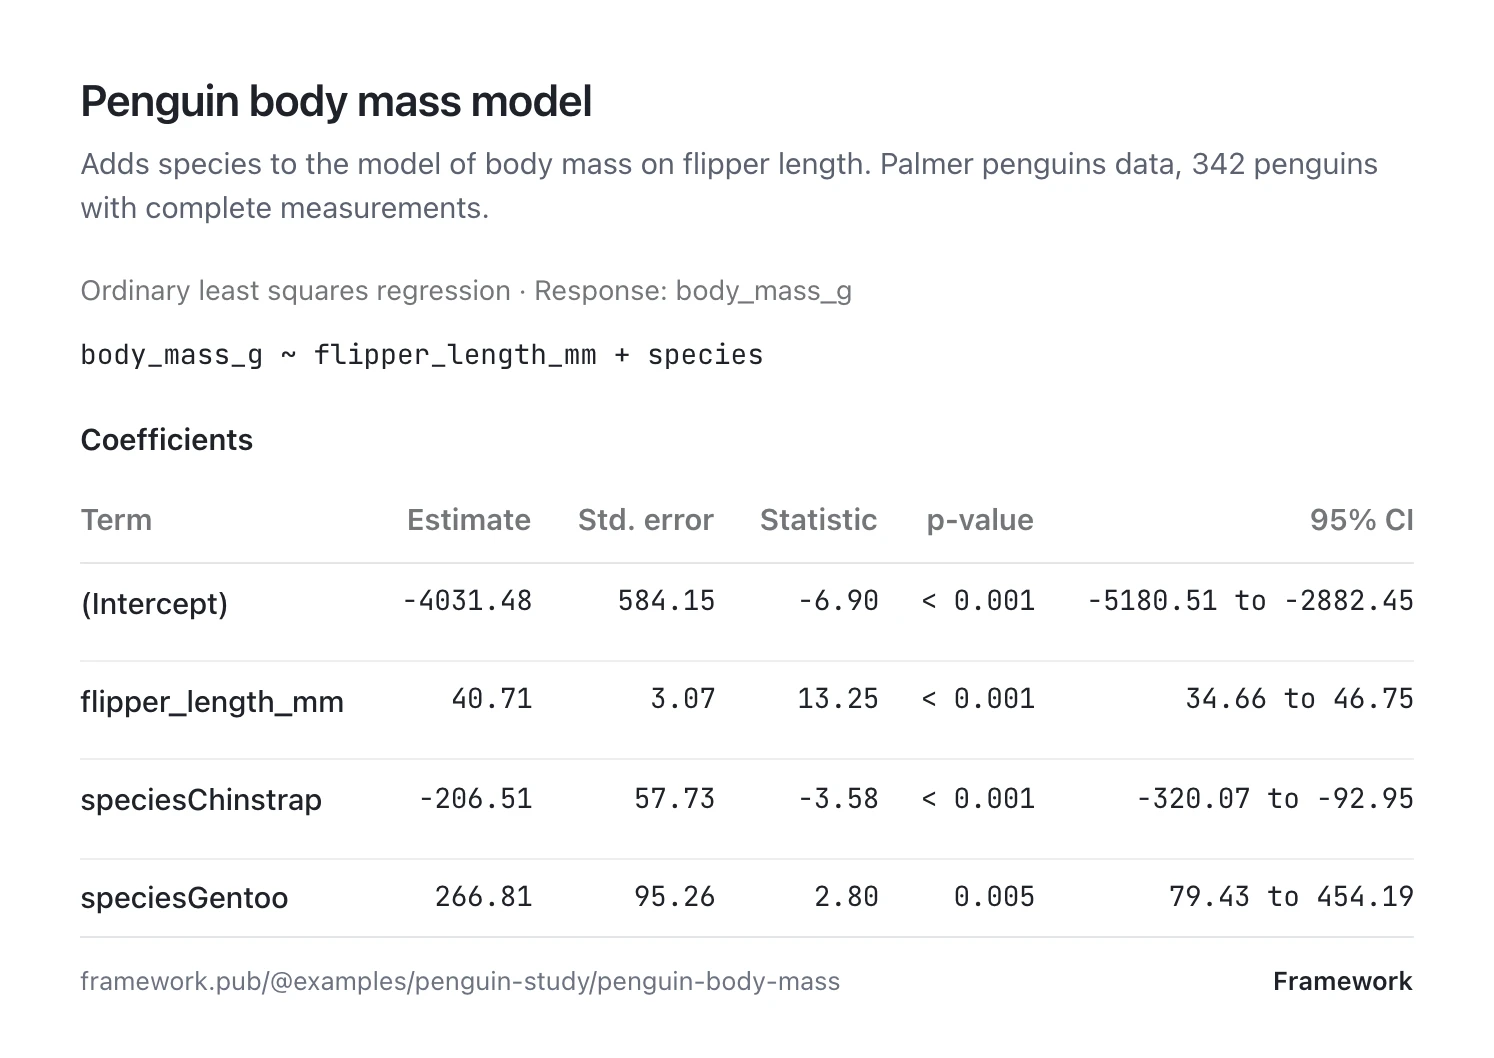
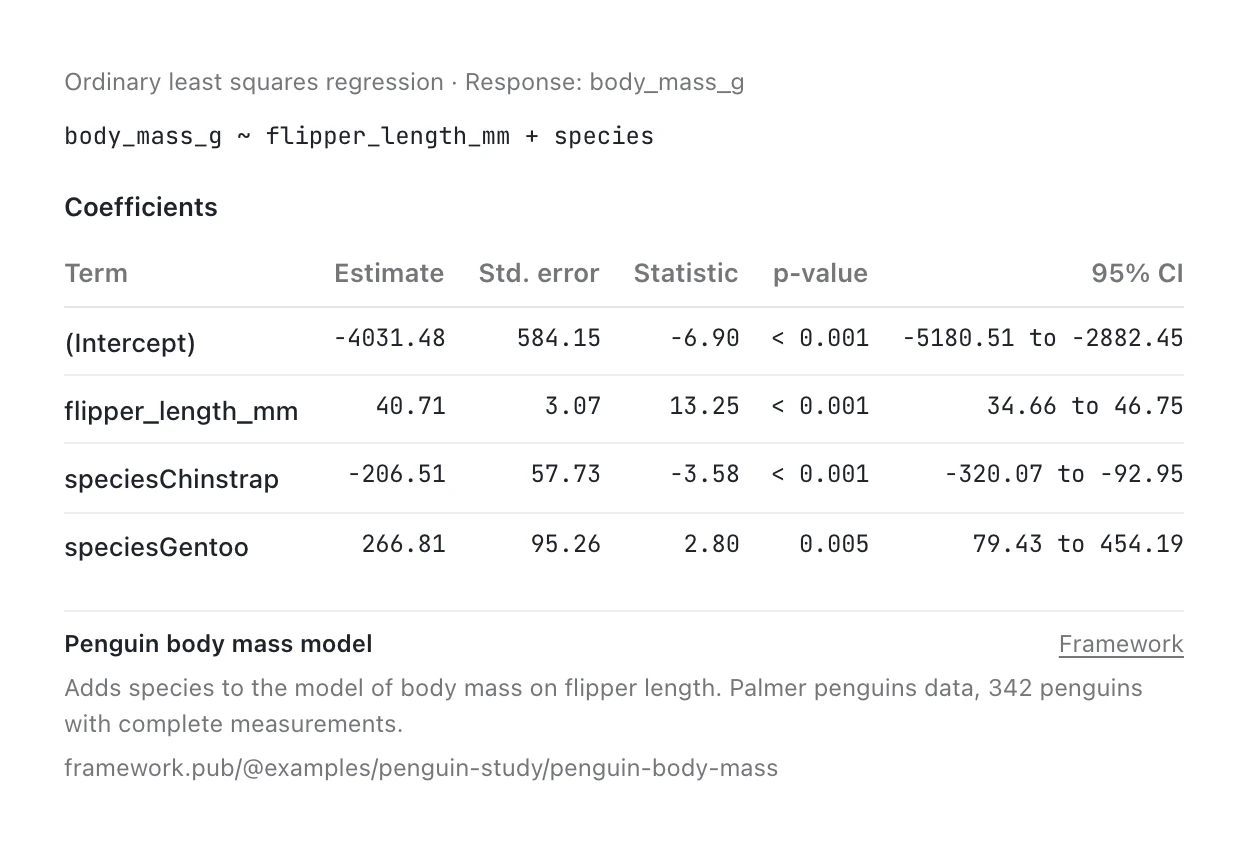
fix: Copy image matches the embed's layout and spacing

diff --git a/resources/js/embed-image.js b/resources/js/embed-image.js
@@ -1,13 +1,13 @@
 // An artifact's embed as a PNG, for sites that take images but not embeds
-// (Substack, email, slides). The result is drawn again off screen, light, and
-// framed to stand on its own: the title and description above, the result,
-// then a footer with the artifact's address, since an image can't link. The
-// Model details disclosure is left out; an image can't open it.
+// (Substack, email, slides). The result is drawn again off screen, light, with
+// the renderer's own layout and sizes, so it looks like the embed. Only the
+// Model details disclosure is left out, since an image can't open it, and the
+// artifact's address joins the caption, since an image can't link.
 
 const MIN_WIDTH = 560;
 const CHART_WIDTH = 720;
 const MAX_WIDTH = 1200;
-const PAD = 40;
+const PAD = 32;
 const CHART_WAIT_MS = 6000;
 
 let library = null;
@@ -48,45 +48,53 @@ const displayAddress = (url) => {
     }
 };
 
+/**
+ * html-to-image copies each element's computed style, with two distortions:
+ * it rounds font sizes down (11.96px becomes 10.9px), and it pins a table to
+ * its measured height, which counts the table's caption twice and stretches
+ * the rows. These rules, added after its font CSS, restore the real sizes.
+ */
+async function exactCss(stage, getFontEmbedCSS) {
+    const sizes = new Set();
+    for (const node of [stage, ...stage.querySelectorAll('*')]) {
+        const size = getComputedStyle(node).fontSize;
+        node.setAttribute('data-fw-size', size);
+        sizes.add(size);
+    }
+    const rules = [...sizes].map((size) => `[data-fw-size="${size}"]{font-size:${size}!important}`);
+    rules.push('table,caption,thead,tbody,tfoot,tr,td,th{height:auto!important;block-size:auto!important}');
+    return `${await getFontEmbedCSS(stage)}\n${rules.join('\n')}`;
+}
+
 /** A PNG blob of the embed document, drawn with the framework-embed renderer. */
 export async function embedImage(renderer, doc, link) {
-    const { toBlob } = await loadLibrary();
+    const { toBlob, getFontEmbedCSS } = await loadLibrary();
     const font = getComputedStyle(document.body).fontFamily || 'ui-sans-serif, system-ui, sans-serif';
     const chart = doc.kind === 'vega-lite' || doc.kind === 'image';
 
     const stage = el('div', {
         position: 'fixed', left: '-10000px', top: '0', boxSizing: 'border-box',
-        width: `${(chart ? CHART_WIDTH : MIN_WIDTH) + PAD * 2}px`, padding: `${PAD - 4}px ${PAD}px ${PAD - 12}px`,
-        background: '#ffffff', color: '#1f2229', colorScheme: 'light', fontFamily: font, fontSize: '17px', lineHeight: '1.55',
+        width: `${(chart ? CHART_WIDTH : MIN_WIDTH) + PAD * 2}px`, padding: `${PAD}px`,
+        background: '#ffffff', color: '#1f2229', colorScheme: 'light', fontFamily: font, fontSize: '16px', lineHeight: '1.5',
     });
     stage.setAttribute('aria-hidden', 'true');
     stage.dataset.theme = 'light';
     stage.className = 'light';
-
-    // Title and description
-    const header = el('div', { marginBottom: '18px' });
-    header.append(el('div', { fontSize: '22px', fontWeight: '600', lineHeight: '1.3', letterSpacing: '-0.01em' }, doc.title || 'Artifact'));
-    if (doc.description) header.append(el('div', { marginTop: '6px', fontSize: '15px', color: '#5b6170', lineHeight: '1.5' }, doc.description));
-    stage.append(header);
-
-    // The result, without the renderer's caption (the header and footer replace it)
-    const holder = el('div', {});
-    stage.append(holder);
     document.body.append(stage);
     try {
-        renderer.mount(holder, doc, { lazy: false });
-        holder.querySelectorAll('.fw-embed__details, .fw-embed__caption').forEach((node) => node.remove());
-        holder.querySelectorAll('.fw-embed').forEach((figure) => { figure.style.margin = '0'; figure.style.fontSize = '1em'; });
-        holder.querySelectorAll('.fw-embed__scroll').forEach((scroll) => { scroll.style.overflow = 'visible'; });
+        renderer.mount(stage, doc, { lazy: false });
+        stage.querySelectorAll('.fw-embed__details').forEach((node) => node.remove());
+        stage.querySelectorAll('.fw-embed').forEach((figure) => { figure.style.margin = '0'; });
+        stage.querySelectorAll('.fw-embed__scroll').forEach((scroll) => { scroll.style.overflow = 'visible'; });
 
-        // Footer: where to find it
-        const footer = el('div', {
-            display: 'flex', justifyContent: 'space-between', alignItems: 'baseline', gap: '16px',
-            marginTop: '22px', paddingTop: '12px', borderTop: '1px solid #e3e5ea', fontSize: '13px', color: '#6b7280',
-        });
-        footer.append(el('span', { overflowWrap: 'anywhere' }, displayAddress(link || doc.url || '')));
-        footer.append(el('span', { fontWeight: '600', color: '#1f2229', whiteSpace: 'nowrap' }, 'Framework'));
-        stage.append(footer);
+        // The address readers can type, on its own line at the end of the caption
+        const address = displayAddress(link || doc.url || '');
+        const caption = stage.querySelector('.fw-embed__caption');
+        if (address && caption) {
+            caption.append(el('span', { flexBasis: '100%', order: '2', color: 'var(--fw-embed-muted)', overflowWrap: 'anywhere' }, address));
+        } else if (address) {
+            stage.append(el('div', { marginTop: '12px', fontSize: '12px', color: '#6b7280', overflowWrap: 'anywhere' }, address));
+        }
 
         await Promise.all([waitForCharts(stage), waitForImages(stage), document.fonts?.ready]);
 
@@ -97,7 +105,7 @@ export async function embedImage(renderer, doc, link) {
             stage.style.width = `${content + PAD * 2}px`;
         }
 
-        const blob = await toBlob(stage, { pixelRatio: 2, backgroundColor: '#ffffff', width: stage.offsetWidth, height: stage.offsetHeight, style: { left: '0', position: 'static' } });
+        const blob = await toBlob(stage, { pixelRatio: 2, backgroundColor: '#ffffff', width: stage.offsetWidth, height: stage.offsetHeight, style: { left: '0', position: 'static' }, fontEmbedCSS: await exactCss(stage, getFontEmbedCSS) });
         if (!blob) throw new Error('Could not create image.');
         return blob;
     } finally {

diff --git a/resources/views/components/landing-shared.blade.php b/resources/views/components/landing-shared.blade.php
@@ -48,7 +48,7 @@
     $ssPill = 'flex h-7 items-center gap-1 rounded-full border border-[#e6e6e6] px-2.5';
     $subtitle = 'Body mass, flipper length, and species in the Palmer penguins';
     // The PNG Framework's Copy image makes for this model (resources/js/embed-image.js)
-    $image = ['src' => asset('images/landing/penguin-model-image.webp'), 'width' => 1494, 'height' => 1058,
+    $image = ['src' => asset('images/landing/penguin-model-image.webp'), 'width' => 1248, 'height' => 852,
         'alt' => 'Penguin body mass model: estimates, standard errors, statistics, p-values, and 95% confidence intervals for the intercept, flipper length, and species.'];
     $skyBlue = 'bg-[#1185fe]';
     // bsky.app's type and colors, light and dim (from a live post page)
